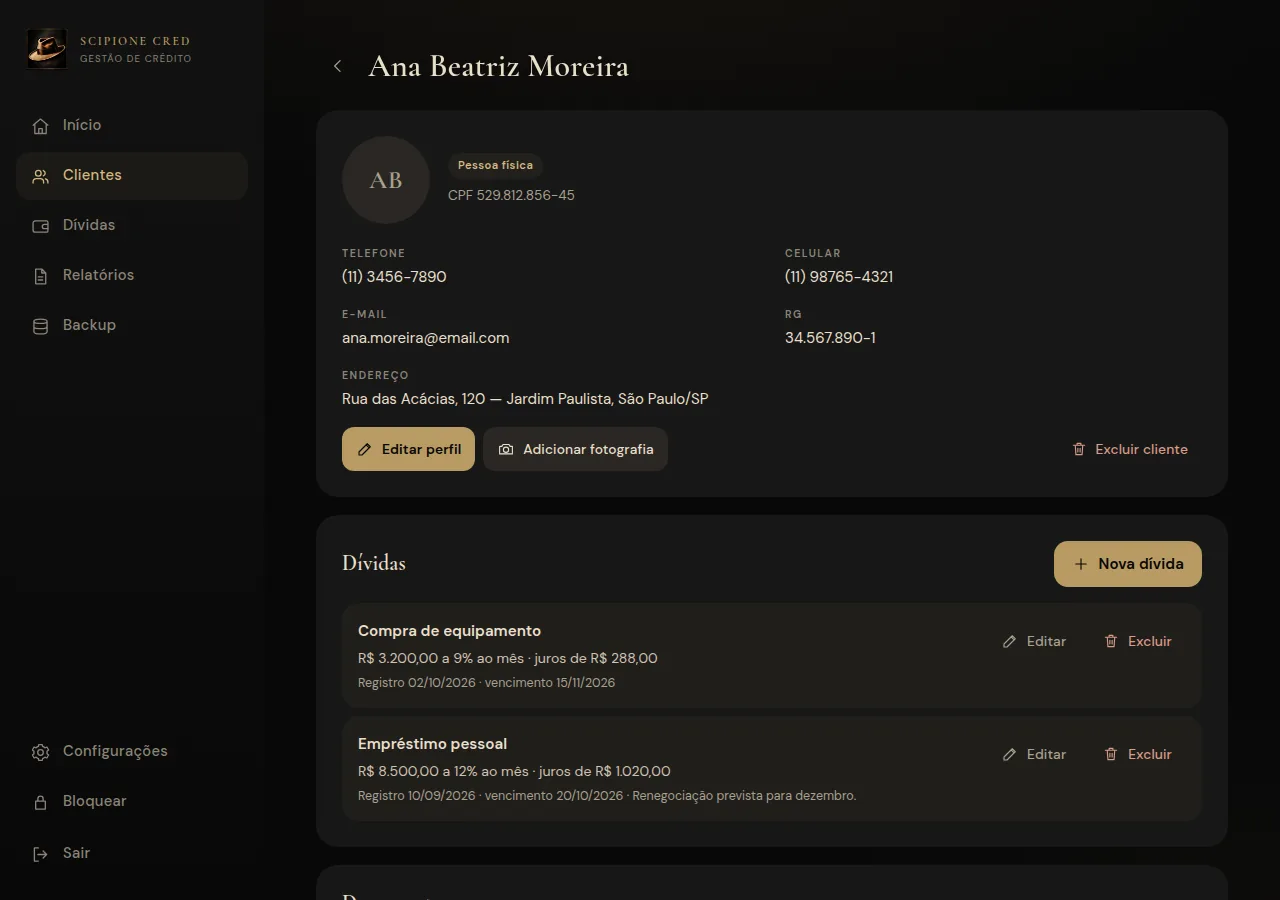
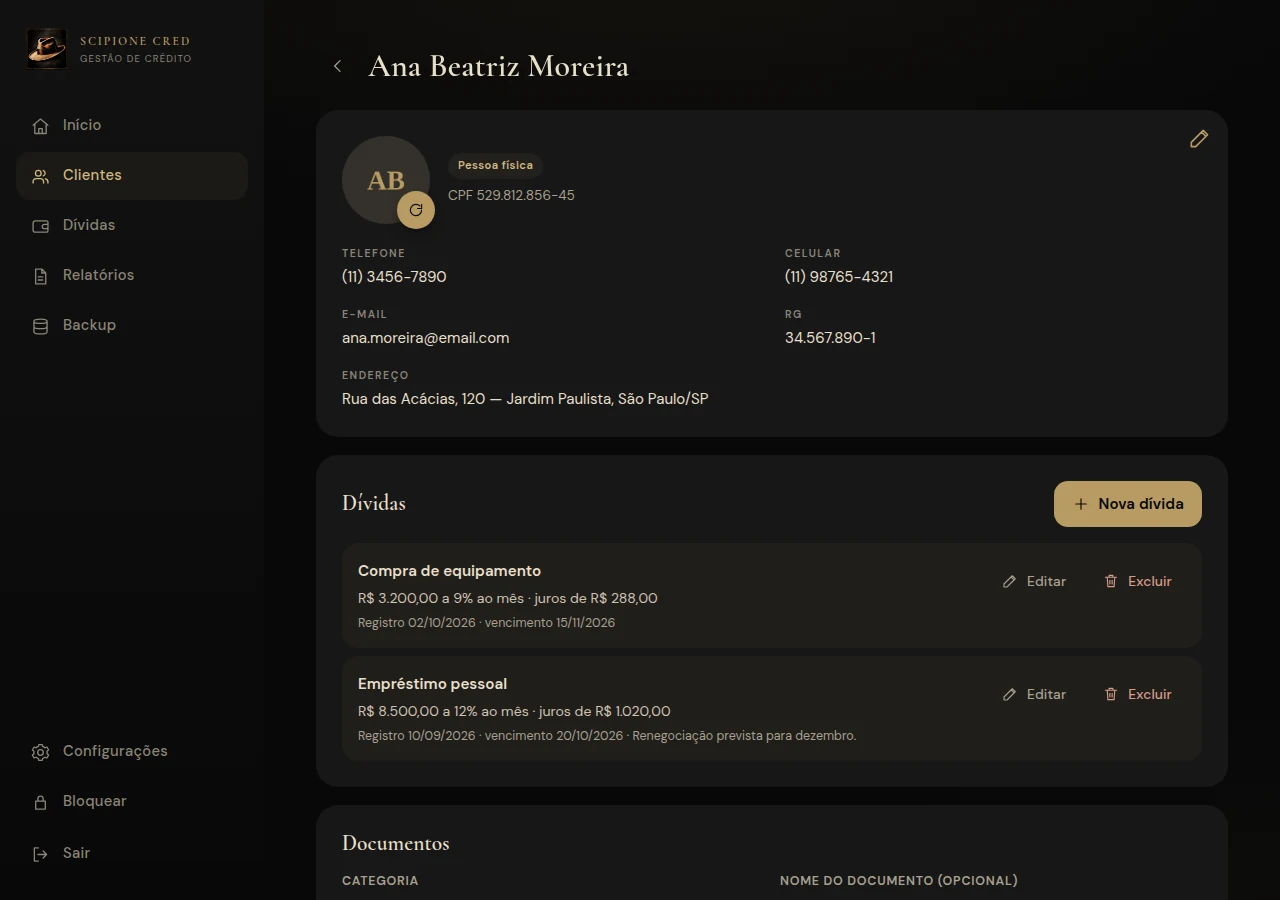
Apply the compact profile actions on desktop

diff --git a/css/ui.css b/css/ui.css
@@ -137,7 +137,7 @@ input::file-selector-button:hover{background:#302c27}
 .form-actions{display:flex;flex-wrap:wrap;gap:10px;margin-top:24px}
 .form-actions button{flex:1 1 160px}
 .form-actions .primary{flex:2 1 220px}
-@media(max-width:999px){.form-actions .form-delete{flex:1 1 100%;justify-content:center;margin-top:2px}}
+.form-actions .form-delete{flex:1 1 100%;justify-content:center;margin-top:2px}
 .inline-form{display:flex;gap:12px;flex-wrap:wrap;align-items:flex-end;margin:0}
 .inline-form .field{flex:1 1 220px;min-width:0}
 .inline-form>button{flex:none}
@@ -250,25 +250,18 @@ ul.sub{list-style:none;margin:8px 0 0;padding:0 0 0 58px;display:grid;gap:6px;fo
 .badge--type{background:var(--gold-softer);color:var(--gold-strong)}
 
 /* ---------- Perfil ---------- */
-.profile-photo{display:contents}
-.profile-edit-mobile,.profile-photo-mobile,.form-delete{display:none}
+.profile-card{position:relative}
+.profile-photo{display:block;position:relative;flex:none;width:88px;height:88px}
 .profile-head{display:flex;align-items:center;gap:18px;margin:0 0 22px;flex-wrap:wrap}
-.profile-head .who{display:grid;gap:6px;min-width:0;flex:1 1 160px}
+.profile-head .who{display:grid;gap:6px;min-width:0;flex:1 1 160px;padding-right:48px}
 .profile-head .who .badge{justify-self:start}
 .profile-head .who p{margin:0;font-size:.85rem;color:var(--muted);overflow-wrap:anywhere}
-@media(max-width:999px){
-  .profile-card{position:relative}
-  .profile-edit-mobile{display:grid;place-items:center;position:absolute;top:8px;right:8px;z-index:3;width:40px;height:40px;min-width:40px;min-height:40px;padding:0;border-radius:50%;background:transparent;color:var(--gold)}
-  .profile-edit-mobile .i{width:24px;height:24px}
-  .profile-edit-mobile:hover{background:var(--gold-softer);color:var(--gold-strong)}
-  .profile-head .who{padding-right:48px}
-  .profile-photo{display:block;position:relative;flex:none;width:88px;height:88px}
-  .profile-photo-mobile{display:grid;place-items:center;position:absolute;right:-5px;bottom:-5px;z-index:2;width:38px;height:38px;min-width:38px;min-height:38px;padding:0;border-radius:50%;background:var(--gold);color:#080808;box-shadow:0 5px 16px -8px #000}
-  .profile-photo-mobile .i{width:18px;height:18px}
-  .profile-photo-mobile:hover{background:var(--gold-strong)}
-  .profile-actions{display:none}
-  .form-delete{display:inline-flex;flex:1 1 100%;justify-content:center;margin-top:2px}
-}
+.profile-edit-action{display:grid;place-items:center;position:absolute;top:8px;right:8px;z-index:3;width:40px;height:40px;min-width:40px;min-height:40px;padding:0;border-radius:50%;background:transparent;color:var(--gold)}
+.profile-edit-action .i{width:26px;height:26px}
+.profile-edit-action:hover{background:var(--gold-softer);color:var(--gold-strong)}
+.profile-photo-action{display:grid;place-items:center;position:absolute;right:-5px;bottom:-5px;z-index:2;width:38px;height:38px;min-width:38px;min-height:38px;padding:0;border-radius:50%;background:var(--gold);color:#080808;box-shadow:0 5px 16px -8px #000}
+.profile-photo-action .i{width:18px;height:18px}
+.profile-photo-action:hover{background:var(--gold-strong)}
 .meta{display:grid;grid-template-columns:1fr;gap:16px;margin:0}
 .meta>div{display:grid;gap:2px;min-width:0}
 .meta dt{font-size:.66rem;font-weight:600;letter-spacing:.14em;text-transform:uppercase;color:var(--faint)}

diff --git a/src/ui/clients.js b/src/ui/clients.js
@@ -45,7 +45,7 @@ const fname=d=>EXT[d.type]?d.name.replace(/\.[a-z0-9]{2,5}$/i,'')+EXT[d.type]:d.
 function viewImg(u,name){const d=h('dialog',{class:'viewer'},h('img',{src:u,alt:name}),h('button',{class:'ghost',onclick:()=>d.close()},icon('close',18),'Fechar'));d.addEventListener('close',()=>d.remove());document.body.append(d);d.showModal()}
 async function profile(id){
   const c=await S.getClient(id);if(!c)return list();
-  const[docs,hist,cnt]=await Promise.all([S.listDocs(id),S.listHistory(id),S.counts(id)]);
+  const[docs,hist]=await Promise.all([S.listDocs(id),S.listHistory(id)]);
   const dsec=await D.section(U,c,()=>profile(id));
   const err=h('p',{class:'error',role:'alert'}),run=fn=>async(...a)=>{err.textContent='';try{await fn(...a);profile(id)}catch(x){err.textContent=x.message}};
   const av=h('div',{class:'avatar avatar--lg'},h('span',{class:'muted'},initials(c.name)));
@@ -60,18 +60,14 @@ async function profile(id){
     err,
     h('section',{class:'card profile-card'},
       rep,
-      h('button',{class:'profile-edit-mobile',type:'button','aria-label':'Editar perfil',onclick:()=>form(c)},icon('edit',24)),
+      h('button',{class:'profile-edit-action',type:'button','aria-label':'Editar perfil',onclick:()=>form(c)},icon('edit',24)),
       h('div',{class:'profile-head'},
         h('div',{class:'profile-photo'},av,
-          h('button',{class:'profile-photo-mobile',type:'button','aria-label':c.photoId?'Substituir fotografia':'Adicionar fotografia',onclick:()=>rep.click()},icon(c.photoId?'refresh':'camera',18))),
+          h('button',{class:'profile-photo-action',type:'button','aria-label':c.photoId?'Substituir fotografia':'Adicionar fotografia',onclick:()=>rep.click()},icon(c.photoId?'refresh':'camera',18))),
         h('div',{class:'who'},
           h('span',{class:'badge badge--type'},pj?'Pessoa jurídica':'Pessoa física'),
           h('p',{},`${pj?'CNPJ':'CPF'} ${c.doc}`))),
-      h('dl',{class:'meta'},row('Telefone',c.phone),row('Celular',c.mobile),row('E-mail',c.email),...(pj?[]:[row('RG',c.rg)]),row('Endereço',c.address,true)),
-      h('div',{class:'actions profile-actions'},h('button',{class:'primary',onclick:()=>form(c)},h('span',{class:'profile-action-label'},'Editar perfil')),
-        h('button',{onclick:()=>rep.click()},h('span',{class:'profile-action-label'},c.photoId?'Substituir fotografia':'Adicionar fotografia')),
-        c.photoId&&h('button',{class:'ghost',onclick:run(()=>S.changePhoto(c,{remove:true}))},h('span',{class:'profile-action-label'},'Remover fotografia')),
-        h('button',{class:'danger',onclick:async()=>{if(!confirm(`Excluir ${c.name}?\n\nTambém serão removidos ${cnt.docs} documento(s), ${cnt.debts} dívida(s) e todo o histórico deste cliente. Não é possível desfazer.`))return;try{await S.deleteClient(id);list()}catch(x){err.textContent=x.message}}},h('span',{class:'profile-action-label'},'Excluir cliente')))),
+      h('dl',{class:'meta'},row('Telefone',c.phone),row('Celular',c.mobile),row('E-mail',c.email),...(pj?[]:[row('RG',c.rg)]),row('Endereço',c.address,true))),
     dsec,
     h('section',{class:'card'},h('h2',{},'Documentos'),
       h('div',{class:'form-grid'},

diff --git a/sw.js b/sw.js
@@ -1,5 +1,5 @@
 // Ao adicionar arquivos nas próximas etapas: inclua-os em FILES e incremente V.
-const V='sc-v37',FILES=['./','index.html','manifest.json','css/app.css','css/ui.css','src/ui/icons.js','src/ui/shell.js','src/ui/kit.js','src/main.js','src/pwa.js','vendor/fflate.min.js','src/export/lib.js','src/export/xlsx.js','src/export/backup-format.js','src/export/backup.js','src/export/reports.js','src/ui/tools.js','src/ui/settings.js','src/core/live.js','src/domain/due.js','src/services/search.js','src/services/settings.js','src/services/dashboard.js','src/ui/dashboard.js','src/ui/avatar.js','src/ui/clientlist.js','src/ui/debtspage.js','src/ui/debts.js','src/services/debts.js','src/domain/money.js','src/ui/clients.js','src/services/clients.js','src/services/records.js','src/domain/validators.js','src/files/process.js','src/db/idb.js','src/security/crypto.js','src/security/auth.js','assets/fonts/cormorant-garamond-latin.woff2','assets/fonts/dm-sans-latin.woff2','assets/img/hat.webp','assets/img/office.webp','assets/img/office-desk.webp','assets/icons/icon-192.png','assets/icons/icon-512.png','assets/icons/icon-maskable-512.png','assets/icons/apple-touch-icon.png'];
+const V='sc-v38',FILES=['./','index.html','manifest.json','css/app.css','css/ui.css','src/ui/icons.js','src/ui/shell.js','src/ui/kit.js','src/main.js','src/pwa.js','vendor/fflate.min.js','src/export/lib.js','src/export/xlsx.js','src/export/backup-format.js','src/export/backup.js','src/export/reports.js','src/ui/tools.js','src/ui/settings.js','src/core/live.js','src/domain/due.js','src/services/search.js','src/services/settings.js','src/services/dashboard.js','src/ui/dashboard.js','src/ui/avatar.js','src/ui/clientlist.js','src/ui/debtspage.js','src/ui/debts.js','src/services/debts.js','src/domain/money.js','src/ui/clients.js','src/services/clients.js','src/services/records.js','src/domain/validators.js','src/files/process.js','src/db/idb.js','src/security/crypto.js','src/security/auth.js','assets/fonts/cormorant-garamond-latin.woff2','assets/fonts/dm-sans-latin.woff2','assets/img/hat.webp','assets/img/office.webp','assets/img/office-desk.webp','assets/icons/icon-192.png','assets/icons/icon-512.png','assets/icons/icon-maskable-512.png','assets/icons/apple-touch-icon.png'];
 addEventListener('install',e=>e.waitUntil(caches.open(V).then(c=>c.addAll(FILES)).then(()=>skipWaiting())));
 addEventListener('activate',e=>e.waitUntil(caches.keys().then(k=>Promise.all(k.filter(x=>x!==V).map(x=>caches.delete(x)))).then(()=>clients.claim())));
 addEventListener('fetch',e=>{if(e.request.method!=='GET')return;e.respondWith(caches.match(e.request,{ignoreSearch:true}).then(r=>r||fetch(e.request).catch(()=>caches.match('index.html'))))});

diff --git a/docs/README.md b/docs/README.md
@@ -23,7 +23,7 @@ Camada exclusivamente visual, sem alteração de regras de negócio, banco ou fl
 - **Componentes compartilhados:** `src/ui/kit.js` (iniciais, datas, plural, seletor de arquivo em pt-BR) e `src/ui/icons.js` (ícones SVG de traço fino, 1,6 px).
 - **Navegação:** `src/ui/shell.js` monta barra inferior até 719 px, rail de 96 px de 720 a 1099 px e menu lateral a partir de 1100 px. Título, ações de bloqueio/saída e navegação usam os mesmos componentes nas três faixas. No celular, Configurações aparece como ícone no topo, ao lado do bloqueio; no tablet e no desktop, como item no rodapé do menu.
 - **Configurações:** `src/ui/settings.js` reúne Sistema, Segurança, Instalação e Vencimentos, com os mesmos handlers de bloqueio automático, teste de integridade, instalação e janela de vencimento.
-- **Perfil do cliente:** dados, dívidas, documentos e histórico, nessa ordem; o card de documentos fica abaixo do card de dívidas.
+- **Perfil do cliente:** dados, dívidas, documentos e histórico, nessa ordem; o card de documentos fica abaixo do card de dívidas. A edição fica no ícone superior direito do card, a troca de foto no botão circular sobre o avatar e a exclusão dentro de “Editar perfil”, após “Cancelar”.
 - **Responsivo:** conteúdo em coluna única no celular; métricas em uma coluna no celular e três colunas a partir de 720 px; listas em 2 colunas e cartões lado a lado a partir de 1000 px; formulários em 2 colunas a partir de 720 px.
 - **Rolagem:** barras de rolagem ocultas em todos os tamanhos de tela; rolagem preservada por toque, roda e teclado.
 - **Feedback:** transições suaves entre telas, spinners nas ações assíncronas e estado de carregamento acessível (`aria-busy`).
